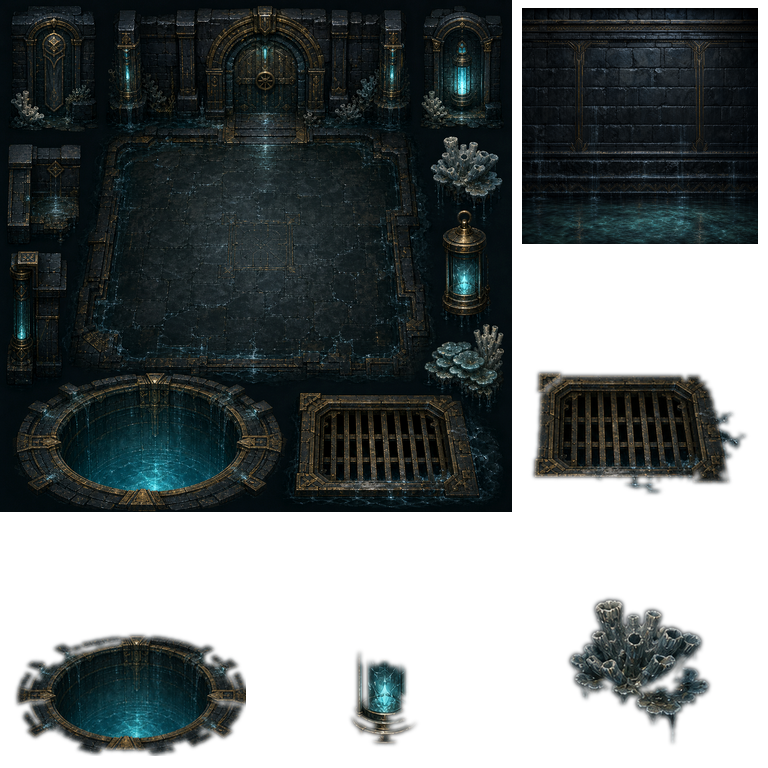
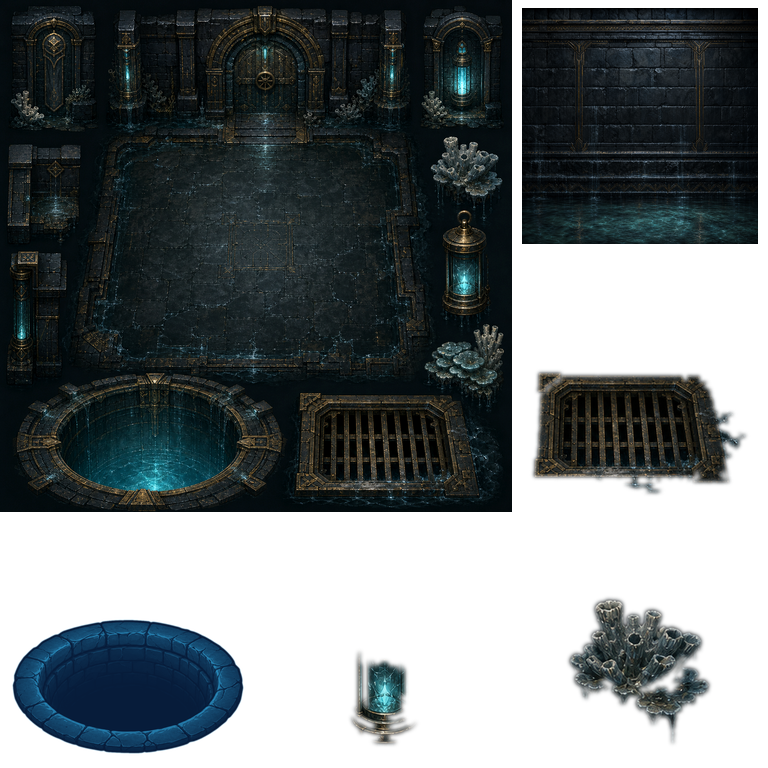
fix: rebuild transparent environment frames

Changed region(s): [[0.0, 0.7812, 0.3438, 1.0]]

diff --git a/tests/platform/environment_prop_asset_pipeline_tests.py b/tests/platform/environment_prop_asset_pipeline_tests.py
@@ -61,6 +61,24 @@ def alpha_components(image: Image.Image, threshold: int = 8) -> list[int]:
 
 
 class EnvironmentPropAssetPipelineTests(unittest.TestCase):
+    def assert_isolated_silhouette(self, cell: Image.Image, margin: int) -> None:
+        alpha = cell.getchannel("A")
+        bbox = alpha.getbbox()
+        self.assertIsNotNone(bbox, "isolated cell is empty")
+        assert bbox is not None
+        left, top, right, bottom = bbox
+        width = right - left
+        height = bottom - top
+        self.assertGreaterEqual(min(left, top, cell.width - right, cell.height - bottom), margin)
+        opaque = sum(value > 8 for value in alpha.get_flattened_data())
+        self.assertLess(opaque / (width * height), 0.88)
+        rows = sum(sum(alpha.getpixel((x, y)) > 8 for x in range(left, right)) * 100 > width * 95
+                   for y in range(top, bottom))
+        columns = sum(sum(alpha.getpixel((x, y)) > 8 for y in range(top, bottom)) * 100 > height * 95
+                      for x in range(left, right))
+        self.assertLessEqual(rows * 100, height * 25)
+        self.assertLessEqual(columns * 100, width * 25)
+
     def test_keyed_sources_produce_shared_isolated_element_variants(self) -> None:
         spec = importlib.util.spec_from_file_location("environment_prop_builder", BUILDER)
         assert spec is not None
@@ -91,7 +109,7 @@ class EnvironmentPropAssetPipelineTests(unittest.TestCase):
         self.assertGreaterEqual(bbox[2] - bbox[0], 224)
         self.assertGreaterEqual(bbox[3] - bbox[1], 224)
 
-    def test_bootstrap_doors_read_old_ecology_atlas_cells(self) -> None:
+    def test_ecology_door_cells_do_not_change_keyed_source_output(self) -> None:
         with tempfile.TemporaryDirectory() as temporary:
             root = Path(temporary)
             assets = root / "assets" / "stage12"
@@ -110,25 +128,27 @@ class EnvironmentPropAssetPipelineTests(unittest.TestCase):
                 rect = (768, 0, 1024, 256) if ecology == "fire" else (512, 0, 768, 256)
                 atlas.paste(color, rect)
                 atlas.save(assets / f"{ecology}_environment.png")
-                # Old code re-crops these concept files instead of the atlas.
-                Image.new("RGBA", (1254, 1254), (255, 0, 255, 255)).save(
-                    sources / f"{ecology}-environment-concept-v1.png")
+            shutil.copy2(ROOT / "art_source/stage12/door-concept-v1.png",
+                         sources / "door-concept-v1.png")
             source = ROOT / "tools" / "build_environment_props.py"
-            result = subprocess.run(
-                [sys.executable, "-c", (
+            command = [sys.executable, "-c", (
                     "import importlib.util, pathlib; "
                     f"spec=importlib.util.spec_from_file_location('builder', r'{source}'); "
                     "module=importlib.util.module_from_spec(spec); spec.loader.exec_module(module); "
                     f"image, _ = module.build_element_doors(pathlib.Path(r'{root}')); "
-                    f"image.save(pathlib.Path(r'{root}') / 'doors.png')")],
-                text=True, capture_output=True)
+                    f"image.save(pathlib.Path(r'{root}') / 'doors.png')")]
+            result = subprocess.run(command, text=True, capture_output=True)
             self.assertEqual(result.returncode, 0, result.stderr)
-            with Image.open(root / "doors.png").convert("RGBA") as doors:
-                for index, ecology in enumerate(("water", "lightning", "chaos"), 1):
-                    cell = doors.crop((index * 256, 0, (index + 1) * 256, 256))
-                    pixels = [pixel for pixel in cell.get_flattened_data() if pixel[3] > 128]
-                    self.assertTrue(pixels)
-                    self.assertEqual(max(set(pixels), key=pixels.count), colors[ecology])
+            first = sha256(root / "doors.png")
+            for ecology, color in colors.items():
+                path = assets / f"{ecology}_environment.png"
+                with Image.open(path).convert("RGBA") as atlas:
+                    rect = (768, 0, 1024, 256) if ecology == "fire" else (512, 0, 768, 256)
+                    atlas.paste(tuple(reversed(color[:3])) + (255,), rect)
+                    atlas.save(path)
+            result = subprocess.run(command, text=True, capture_output=True)
+            self.assertEqual(result.returncode, 0, result.stderr)
+            self.assertEqual(sha256(root / "doors.png"), first)
 
     def test_forced_staged_validation_failure_leaves_destinations_unchanged(self) -> None:
         outputs = [
@@ -147,7 +167,7 @@ class EnvironmentPropAssetPipelineTests(unittest.TestCase):
         self.assertIn("forced staged validation failure", result.stderr)
         self.assertEqual({path: sha256(path) for path in outputs}, before)
 
-    def test_invalid_published_door_hash_fails_closed_without_reusing_wall_cells(self) -> None:
+    def test_old_report_cannot_freeze_published_incorrect_frames(self) -> None:
         with tempfile.TemporaryDirectory() as temporary:
             root = Path(temporary)
             assets = root / "assets" / "stage12"
@@ -172,17 +192,22 @@ class EnvironmentPropAssetPipelineTests(unittest.TestCase):
                 with Image.open(assets / f"{ecology}_environment.png").convert("RGBA") as image:
                     image.paste((17, 19, 23, 255), (512, 0, 768, 256))
                     image.save(assets / f"{ecology}_environment.png")
+            shutil.copy2(source_root / "door-concept-v1.png", target / "door-concept-v1.png")
+            shutil.copy2(source_root / "abyss-hole-concept-v1.png", target / "abyss-hole-concept-v1.png")
             report_path = assets / "environment-props-build.json"
             report = json.loads(report_path.read_text(encoding="utf-8"))
             report["element_doors"]["rgba_sha256"] = "0" * 64
             report_path.write_text(json.dumps(report, indent=2, sort_keys=True) + "\n",
                                    encoding="utf-8")
-            before = {path: sha256(path) for path in outputs}
             result = subprocess.run([sys.executable, str(BUILDER), "--root", str(root)],
                                     cwd=root, text=True, capture_output=True)
-            self.assertNotEqual(result.returncode, 0)
-            self.assertIn("published element doors validation failed", result.stderr)
-            self.assertEqual({path: sha256(path) for path in outputs}, before)
+            self.assertEqual(result.returncode, 0, result.stderr)
+            rebuilt = json.loads(report_path.read_text(encoding="utf-8"))
+            self.assertEqual(rebuilt["schema_version"], 2)
+            self.assertEqual(rebuilt["sources"], {
+                "door-concept-v1.png": sha256(target / "door-concept-v1.png"),
+                "abyss-hole-concept-v1.png": sha256(target / "abyss-hole-concept-v1.png"),
+            })
 
     def test_builder_repeat_generation_is_byte_for_byte_stable(self) -> None:
         self.assertTrue(BUILDER.is_file(), "shared environment prop builder is missing")
@@ -222,17 +247,17 @@ class EnvironmentPropAssetPipelineTests(unittest.TestCase):
                 for cell in range(4)
             ]
             for tile in door_cells:
-                bbox = tile.getchannel("A").getbbox()
-                self.assertIsNotNone(bbox)
-                assert bbox is not None
-                self.assertGreaterEqual(
-                    min(bbox[0], bbox[1], 256 - bbox[2], 256 - bbox[3]), 12)
+                self.assert_isolated_silhouette(tile, 12)
             self.assertEqual(len({cell.tobytes() for cell in door_cells}), 4)
 
     def test_ecology_prop_manifest_matches_isolated_outputs(self) -> None:
         self.assertTrue(REPORT.is_file(), REPORT)
         manifest = json.loads(REPORT.read_text(encoding="utf-8"))
-        self.assertEqual(manifest["schema_version"], 1)
+        self.assertEqual(manifest["schema_version"], 2)
+        self.assertEqual(manifest["sources"], {
+            "door-concept-v1.png": sha256(ROOT / "art_source/stage12/door-concept-v1.png"),
+            "abyss-hole-concept-v1.png": sha256(ROOT / "art_source/stage12/abyss-hole-concept-v1.png"),
+        })
         self.assertEqual(set(manifest["ecologies"]), set(ECOLOGIES))
         for ecology in ECOLOGIES:
             color_path = ROOT / f"assets/stage12/{ecology}_environment.png"
@@ -258,6 +283,8 @@ class EnvironmentPropAssetPipelineTests(unittest.TestCase):
                         min(bbox[0], bbox[1], 256 - bbox[2], 256 - bbox[3]), 8)
                     self.assertEqual(cell.getchannel("A").tobytes(),
                                      material_cell.getchannel("A").tobytes())
+                    if name == "hole":
+                        self.assert_isolated_silhouette(cell, 8)
                     components = alpha_components(cell)
                     self.assertTrue(components)
                     if len(components) > 1:

diff --git a/tools/build_environment_props.py b/tools/build_environment_props.py
@@ -248,69 +248,16 @@ def _rgba_hash(image: Image.Image) -> str:
     return hashlib.sha256(image.convert("RGBA").tobytes()).hexdigest()
 
 
-def _canonical_element_doors(root: Path) -> Image.Image | None:
-    assets = root / "assets" / "stage12"
-    report_path = assets / "environment-props-build.json"
-    color_path = assets / "element_doors.png"
-    material_path = assets / "element_doors_material.png"
-    # Legacy atlas bootstrap is legal only for a root with no published report.
-    if not report_path.exists():
-        return None
-    try:
-        if not report_path.is_file() or not color_path.is_file() or not material_path.is_file():
-            raise RuntimeError("published report or public door files are missing")
-        report = json.loads(report_path.read_text(encoding="utf-8"))
-        if (report.get("schema_version") != 1
-                or set(report.get("ecologies", {})) != set(ECOLOGIES)):
-            raise RuntimeError("published report schema is invalid")
-        expected_hash = report["element_doors"]["rgba_sha256"]
-        if not isinstance(expected_hash, str) or len(expected_hash) != 64:
-            raise RuntimeError("published public door hash is invalid")
-        color = Image.open(color_path).convert("RGBA")
-        material = Image.open(material_path).convert("RGBA")
-    except (OSError, KeyError, TypeError, json.JSONDecodeError, RuntimeError) as error:
-        raise RuntimeError(f"published element doors validation failed: {error}") from error
-    if (color.size != (1024, 256) or material.size != color.size
-            or color.getchannel("A").tobytes() != material.getchannel("A").tobytes()
-            or material.tobytes() != _material_map(color).tobytes()
-            or _rgba_hash(color) != expected_hash):
-        raise RuntimeError("published element doors validation failed")
-    return color.copy()
+def _file_hash(path: Path) -> str:
+    return hashlib.sha256(path.read_bytes()).hexdigest()
 
 
 def build_element_doors(root: Path) -> tuple[Image.Image, Image.Image]:
-    canonical = _canonical_element_doors(root)
-    if canonical is not None:
-        return canonical, _material_map(canonical)
     output = Image.new("RGBA", (CELL * 4, CELL))
-    sources = (("fire", root / "assets" / "stage12" / "fire_environment.png",
-                (768, 0, 1024, 256)),
-               ("water", root / "assets" / "stage12" / "water_environment.png",
-                (512, 0, 768, 256)),
-               ("lightning", root / "assets" / "stage12" / "lightning_environment.png",
-                (512, 0, 768, 256)),
-               ("chaos", root / "assets" / "stage12" / "chaos_environment.png",
-                (512, 0, 768, 256)))
-    assets = root / "assets" / "stage12"
-    # Capture every legacy source before callers can replace an ecology atlas.
-    captured = [(name, Image.open(path).convert("RGBA").crop(box))
-                for name, path, box in sources]
-    for index, (name, source) in enumerate(captured):
-        if max(source.size) > CELL:
-            scale = CELL / max(source.size)
-            source = source.resize((round(source.width * scale), round(source.height * scale)),
-                                   Image.Resampling.LANCZOS)
-        components = _components(source.getchannel("A"))
-        if not components:
-            raise RuntimeError(f"{name}: door source is empty")
-        alpha = Image.new("L", source.size)
-        for point in components[0]: alpha.putpixel(point, source.getchannel("A").getpixel(point))
-        source.putalpha(alpha)
-        bbox = alpha.getbbox()
-        assert bbox is not None
-        source = source.crop((max(0, bbox[0] - 12), max(0, bbox[1] - 12),
-                              min(CELL, bbox[2] + 12), min(CELL, bbox[3] + 12)))
-        output.alpha_composite(_fit_to_cell(source, 12, 244), (index * CELL, 0))
+    subject = _keyed_subject(root / "art_source" / "stage12" / "door-concept-v1.png")
+    for index, ecology in enumerate(("fire", *ECOLOGIES)):
+        output.alpha_composite(_fit_to_cell(_element_variant(subject, ecology), 12, 244),
+                               (index * CELL, 0))
     return output, _material_map(output)
 
 
@@ -324,12 +271,14 @@ def build_ecology_environment(ecology: str, root: Path) -> tuple[Image.Image, Im
     atlas.alpha_composite(room, (0, 0))
     objects: dict[str, dict] = {}
     wall = Image.open(source_root / "backgrounds" / ecology / f"{ecology}-wall-tile-v1.png").convert("RGBA")
-    object_sources = {"wall": wall}
-    object_sources.update({name: concept.crop(box) for name, box in CONCEPT_CROPS[ecology].items()})
+    hole = _element_variant(_keyed_subject(source_root / "abyss-hole-concept-v1.png"), ecology)
+    object_sources = {"wall": wall, "hole": hole}
+    object_sources.update({name: concept.crop(box) for name, box in CONCEPT_CROPS[ecology].items()
+                           if name != "hole"})
     for name, position in LAYOUT.items():
         # A wall tile is authored as a complete opaque background surface;
         # unlike isolated concept props it must not be reduced to one fragment.
-        isolated = (object_sources[name] if name == "wall"
+        isolated = (object_sources[name] if name in {"wall", "hole"}
                     else _retain_subject(object_sources[name], 8, keep_small=False))
         cell = _fit_to_cell(isolated, 8, 244)
         atlas.alpha_composite(cell, position)
@@ -360,7 +309,13 @@ def _validate_staged_outputs(staged: dict[Path, Path]) -> None:
         if color.size != (768, 768) or color.getchannel("A").tobytes() != material.getchannel("A").tobytes():
             raise RuntimeError(f"{ecology}: color/material validation failed")
     report = json.loads(staged[assets / "environment-props-build.json"].read_text(encoding="utf-8"))
-    if report.get("schema_version") != 1 or set(report.get("ecologies", {})) != set(ECOLOGIES):
+    source_root = assets.parent.parent / "art_source" / "stage12"
+    expected_sources = {
+        "door-concept-v1.png": _file_hash(source_root / "door-concept-v1.png"),
+        "abyss-hole-concept-v1.png": _file_hash(source_root / "abyss-hole-concept-v1.png"),
+    }
+    if (report.get("schema_version") != 2 or set(report.get("ecologies", {})) != set(ECOLOGIES)
+            or report.get("sources") != expected_sources):
         raise RuntimeError("environment props report schema validation failed")
     if report.get("element_doors", {}).get("rgba_sha256") != _rgba_hash(image(assets / "element_doors.png")):
         raise RuntimeError("element doors hash validation failed")
@@ -402,8 +357,13 @@ def main() -> None:
     door_color, door_material = build_element_doors(root)
     staged: list[tuple[Path, Image.Image]] = [(assets / "element_doors.png", door_color),
                                                 (assets / "element_doors_material.png", door_material)]
-    report = {"schema_version": 1, "element_doors": {"rgba_sha256": _rgba_hash(door_color)},
-              "ecologies": {}}
+    source_root = root / "art_source" / "stage12"
+    report = {"schema_version": 2,
+              "sources": {
+                  "door-concept-v1.png": _file_hash(source_root / "door-concept-v1.png"),
+                  "abyss-hole-concept-v1.png": _file_hash(source_root / "abyss-hole-concept-v1.png"),
+              },
+              "element_doors": {"rgba_sha256": _rgba_hash(door_color)}, "ecologies": {}}
     for ecology in ECOLOGIES:
         color, material, record = build_ecology_environment(ecology, root)
         staged.extend(((assets / f"{ecology}_environment.png", color),
